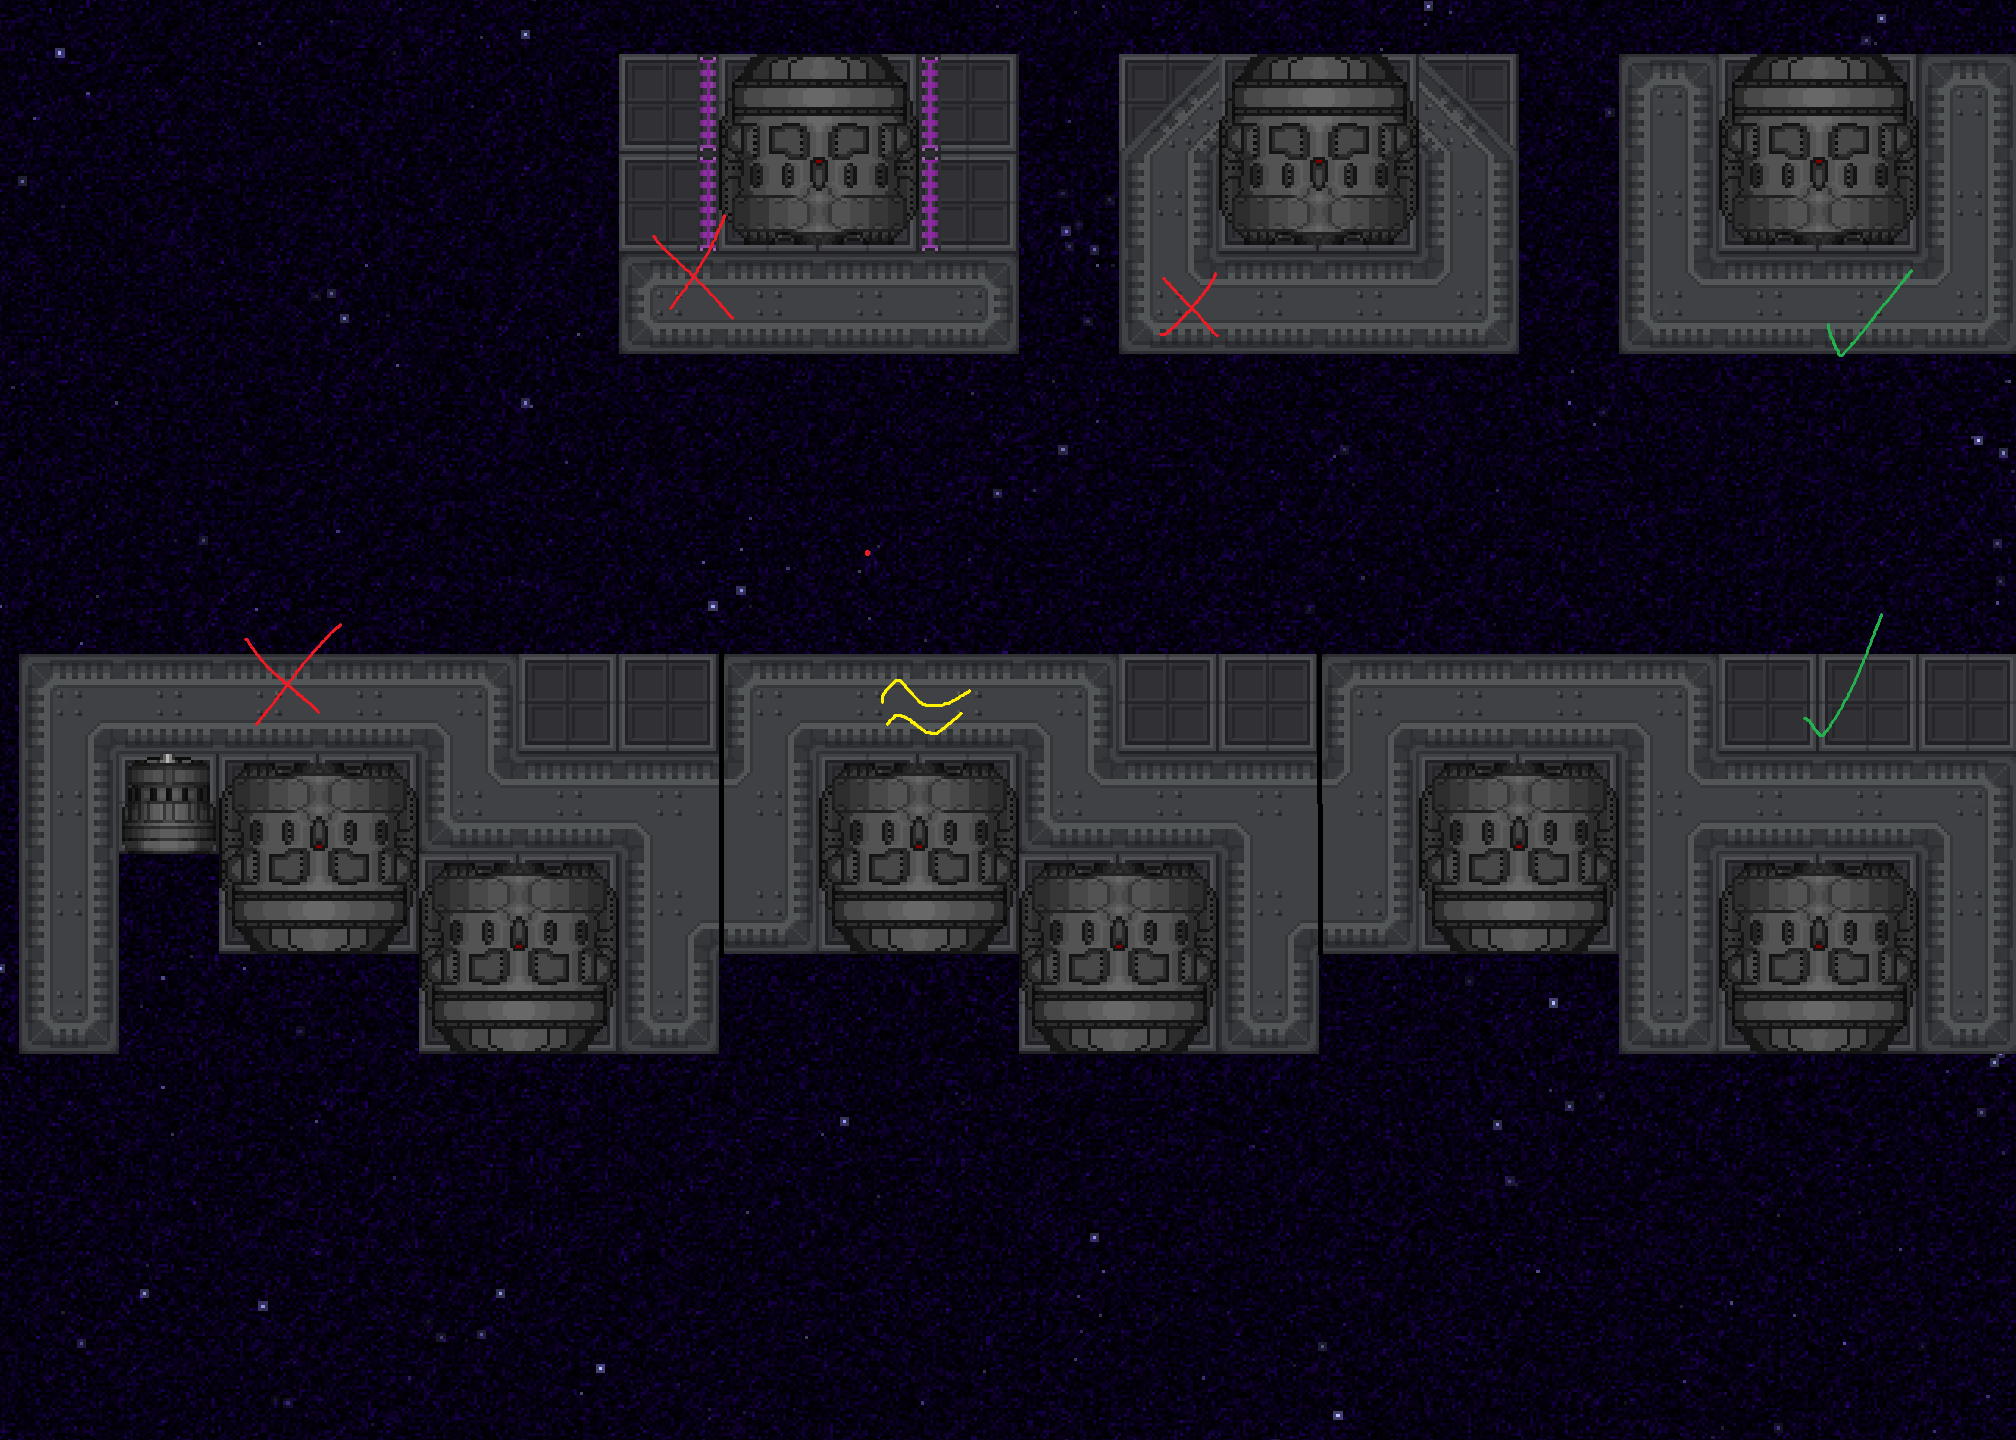
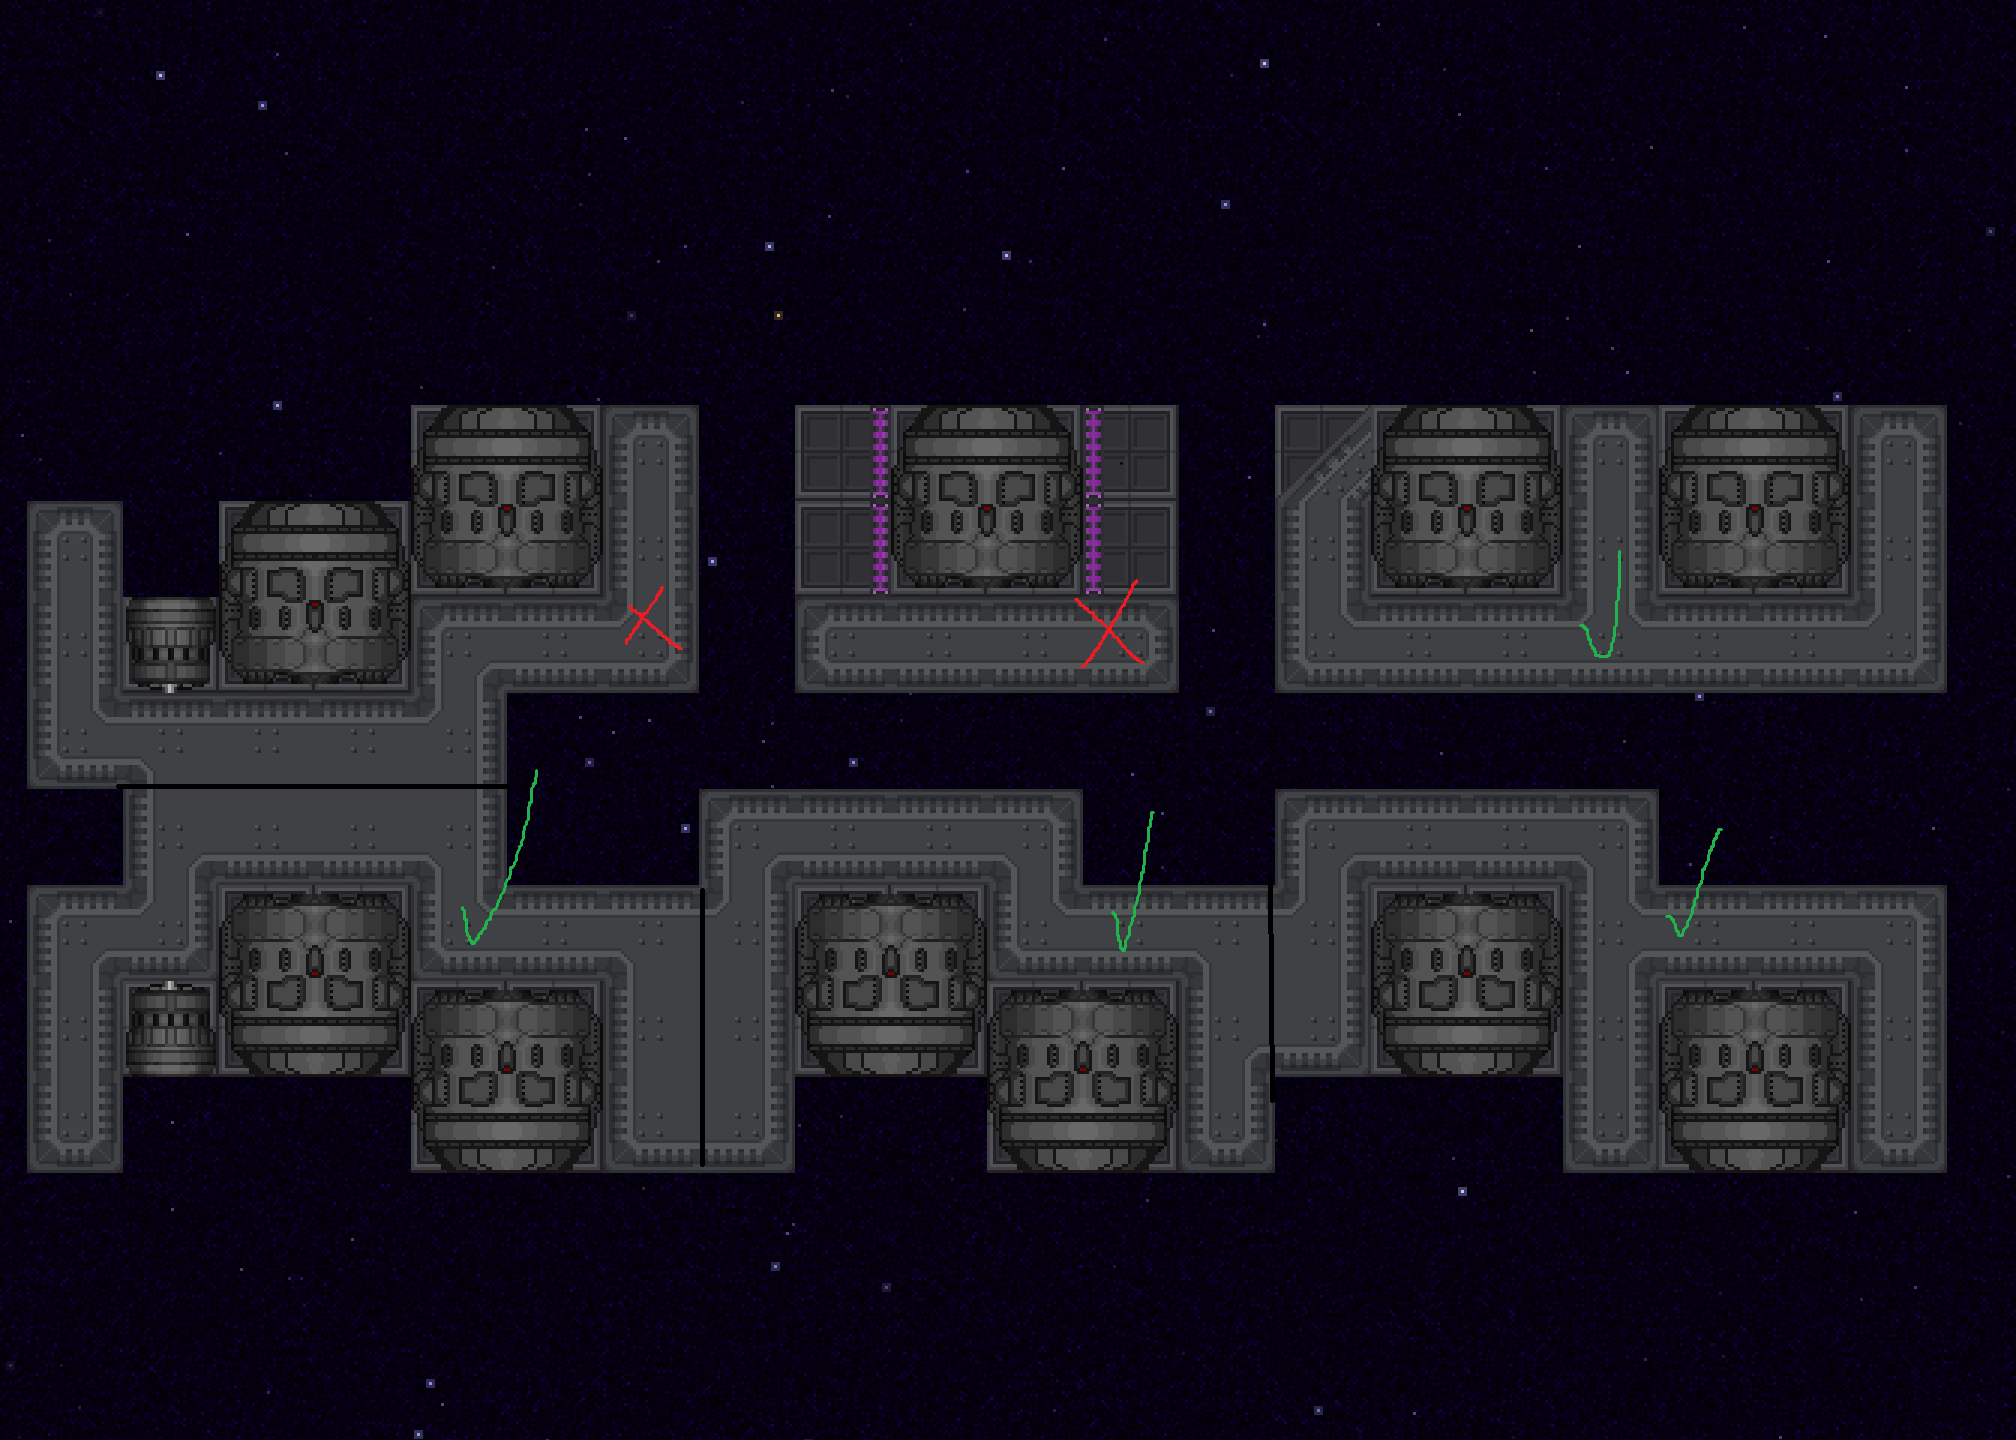
Adjusts thruster guidelines, armor & reoders combat guidelines

diff --git a/src/en/monolith/shipyard/ship_guidelines.md b/src/en/monolith/shipyard/ship_guidelines.md
@@ -177,60 +177,97 @@ colornetwork [Pipe ID (you can see it by right clicking the pipe)] Pipe [color h
 * If the ship's components present any hazard such as radiation, the ship must provide corresponding protective gear and, if applicable, shielding.
 
 *External ship components*
-* Exterior walls should be “reinforced” (plasteel) walls
-* Follow the below example when placing walls under plating. For what is allowed, allowed on a case by case basis & forbidden
-  ![image](exteriorTileRuling.png)
+* Exterior walls should be Reinforced Steel walls and above.
 * External airlocks & docking ports
   - Exterior doors should either be docks or “external” airlocks
   - Directional fans under all external airlocks
   - Airlock intermediate space (Airlock doors should bolt each other when the opposite door is open!)
+* Reinforced hull plating under ship guns & thrusters (necessary so they aren't shot off easily)
+  - Decal or catwalk on top for aesthetics
+
+*Thrusters guidelines*
+* Follow the below example when placing walls under plating. For what is allowed, allowed on a case by case basis & forbidden
+  ![image](exteriorTileRuling.png)
 * Thrusters in all four directions 
   - When placing them, make them look like they are part of the hull, not hanging out. See non-exhaustive example below
   ![image](thrusterPlacementExamples.png)
   - Unless the ship has a gimmick in mind (like strafing or omnidirectionnal), you should focus on main thrust.
-  - You can protected thrusters with grilles
-  - Keep the exhaust zone of thrusters except for the above scenario. 3 tiles of free space for regular thrusters & 7 for large thrusters.
+  - You can protect thrusters with grilles
+  - Keep the exhaust zone of thrusters except for the above scenario. 
+    - **3 tiles of free space for regular thrusters & 7 for large thrusters.**
+
 * *(optional)* Large thrusters (keep in mind their large power draw!)
    - Small ships: Only allowed for main thrust
    - Medium & below: Only allowed for opposing directions. I.E left/right or front/back. (See the RSC Scallywag, it's a great example of that rule.)
    - Large & above: All directions allowed
 * Integrate your thrusters properly into the hull ! Follow the below example for what is allowed, allowed on a case by case basis & forbidden
   ![image](largeThrusterRuling.png)
-* Reinforced hull plating under ship guns & thrusters (necessary so they aren't shot off easily)
-  - Decal or catwalk on top for aesthetics
+
+
+* **APPLICABLE FOR SMALL/MICRO SHIPS ONLY** Small ships and below have relaxed thruster guidelines to allow for more interesting shapes. See non exhaustive example below
+  ![image](relaxedThrusterGuidelines.png)
 
 *Meta*
 * Warp Point (for ghost spectator reasons)
 * Latejoin spawn point - Keep in a crew/habitable area! 
-* RoofComponent on your grid (done via F7 objects menu, same way you add BecomesStation. Add the roof enabled/disabled markers to all tiles you want to not be affected by planet lighting (such as desert planet).)
-* No Roof markers on external areas (for expedition lighting namely) 
+* Add the **Roof** component on your grid 
+  - To do so, execute the command "vv [gridID]" and in the "Server Components" tab press the Add Component button
+  - Add the roof enabled/disabled markers to all tiles you want to not be affected by planet lighting (such as exped planets).
+  - No Roof markers on external areas (for expedition lighting namely) 
 * Vacuum markers on enclosed spaces that are meant to be spaced (like atmos burn chambers & fully spaced ships)
 
 # Combat guidelines
-## Ship gun usage & gunnery server ruling
-*  **Keep the armament consistant**. Non exhaustive examples below:
-    - High tech ships use laser mounts, light and directionnal armor, shields
-	- Low tech ships use ballistic mounts, and heavy armor
+These guidelines apply to all vessels. Combat requirements from other guidelines overule parts of these guidelines (such as carriers having lower power gunnery servers)
+
+*Mandatory for ships with ship mounts*
+* Gunnery console, same orientation as Shuttle Console
+* Gunnery server (see following section for more details)
+
+*Military supplies*
+* Do Not Over-supply ships - keep personnel armament to a minimum, and at most provide basic equipment - players can kit out their ships themselves! 
+  - An example is a beanbag kammerer, or a MK-58.
+
+*Non faction military ships*
+* Dedicated combat ships should be filling a unique niche in combat
+* Combat ships should also have some kind of “economy” purpose for downtime
+   - cargo bays, small R&D, chemistry, anything so long as it does not outvalue a vessel dedicated to such economy.
+
+## Gunnery server ruling
+
 * Gunnery server (power of the server depending on ship size)
   - Small: low 
   - Medium: medium & below
   - Large: high & below
   - Capital: ultra high & below by default. **Liable to exceptions on a case by case basis (discuss with maintainers).**
 
+## Ship mounts
+* All shuttles should have some kind of armaments (exception applies for (minor) factions hulls). 
+  - A couple L-85s to act as point defense is fine for regular CIV ships.
+*  **Keep the armament consistant**. Non exhaustive examples below:
+  - High tech ships use laser mounts, light and directionnal armor, shields
+	- Low tech ships use ballistic mounts, and heavy armor
 * EMP gun mounts
    - should be used to fill specific niche (like a boarding vessel, interceptor police craft etc..) 
-## Combat requirements
-*All Vessels*
-* Gunnery console, same orientation as Shuttle Console  
-* All shuttles should have some kind of armament. For civ ships, a couple L85s is fine.
-* Do Not Over-supply ships - keep personnel armament to a minimum, and at most provide basic equipment - players can kit out their ships themselves! (An example is a beanbag kammerer, or a MK-58.)
-  
-*Non faction military ships*
-* Dedicated combat ships should be filling a unique niche in combat
-* Combat ships should also have some kind of “economy” purpose for downtime
-   - cargo bays, small R&D, chemistry, anything so long as it does not outvalue a vessel dedicated to such economy.
 
-## Scrapyard Guidelines
+## Armor & shields
+In monolith, armor & shields are what define how long your ship can sustain damage before it's insides can be punched through.
+
+*CIV ships*
+* Reinforced steel walls should be the privileged kind of armor
+* Extras (pick one, keep in mind the addition of these when calculating the price !)
+  * Directional plastitanium shielding 
+  * Energy shield (MS-100 only)
+
+*MIL ships*
+* MIL ships are granted a single layer of plastitanium walls.
+* External components (ship guns, thrusters, airlocks..) should be surrounded with plastitanium walls
+* For extra armor, you may add additionnal layers of reinforced steel walls
+
+* Extras (pick one)
+  - Directional plastitanium armor (to cover weakpoints and possibly thruster blocks!)
+  - Energy shield (MS-100 only)
+
+# Scrapyard Guidelines
 Scrapyard ships are ships that are "flying shit boxes" in spirit. 
 **This means that a ship not meeting guidelines, only to brand it as scrapyard later for it to pass review will get it merged. Scrapyard ships should be pretty shit boxes.**
 
